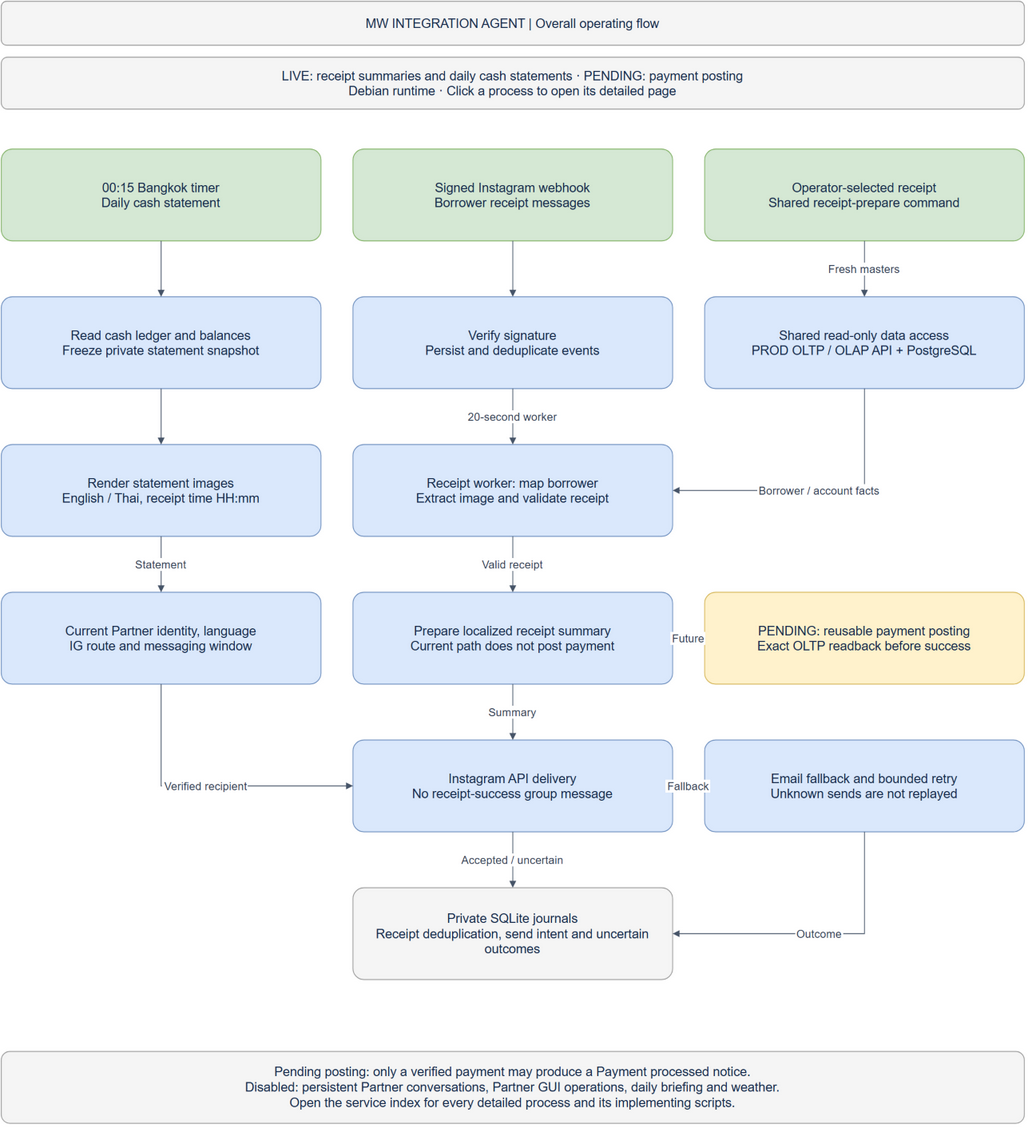
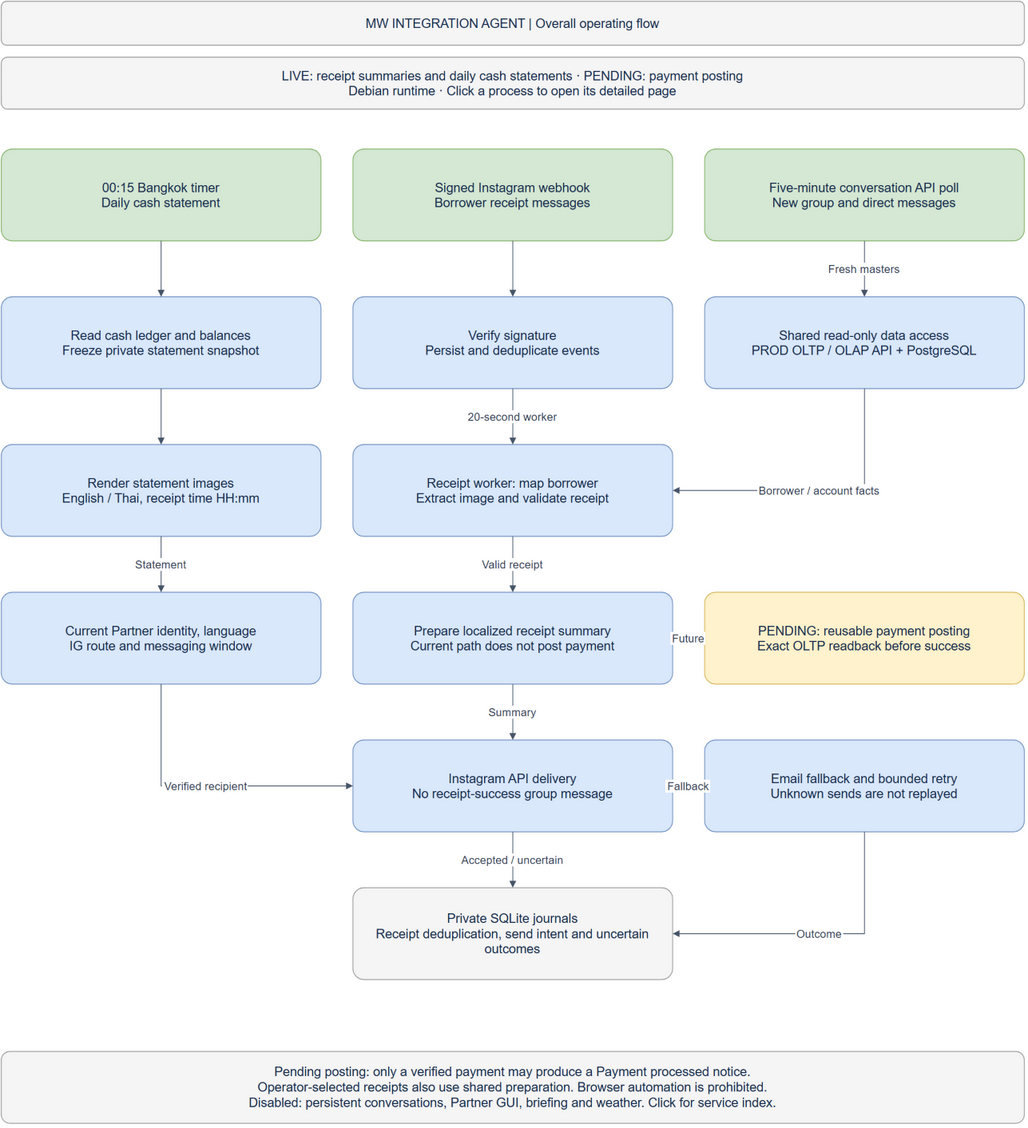
Document verified API polling deployment and update process diagram

Changed region(s): [[0.249, 0.9619, 0.7471, 0.9929], [0.7471, 0.1551, 0.9339, 0.1862]]

diff --git a/scripts/generate-business-process.py b/scripts/generate-business-process.py
@@ -128,6 +128,16 @@ for key,title,service,detail in [
         detail+'\n\nThis page records the current disabled state; it does not enable or promise the feature.',
         'service-catalogue.json: '+service+'\nconfig.py · docs/MIGRATION_PLAN.md'))
 
+pages.append(('poll','Conversation API polling','LIVE',[
+ 'Five-minute timer → single polling worker',
+ 'Official conversations API; current AI-enabled borrower participants',
+ 'Read recent messages back to saved cutoff with five-minute overlap',
+ 'History complete and participant / attachment data usable?',
+ 'Reserve new message IDs and shared receipt image jobs',
+ 'Commit conversation checkpoint; existing receipt worker continues'],
+ 'API only; no browser automation.\nObserved three-participant conversations are readable through expanded list fields.\nDirect group-history endpoint failed.\nMore than 100 unseen messages → stop; no cursor advance.\nOther senders / text / non-images → ignore.\nFresh activation cutoff; no historical replay.\nPolled records never refresh signed IG reply windows.\nNo group send or payment write.',
+ 'conversation_poll.py · receipt_journal.py · receipt_run.py\nmw-conversation-poll.timer · docs/CONVERSATION_POLL.md'))
+
 r=page('agent-overview','01 · Agent overview',1460)
 box(r,'title','MW INTEGRATION AGENT | Overall operating flow',60,25,1280,55,'note')
 box(r,'status','LIVE: receipt summaries and daily cash statements · PENDING: payment posting\nDebian runtime · Click a process to open its detailed page',60,95,1280,65,'note')
@@ -136,7 +146,7 @@ box(r,'status','LIVE: receipt summaries and daily cash statements · PENDING: pa
 for key,label,col,row,kind,target in [
  ('daily','00:15 Bangkok timer\nDaily cash statement',0,0,'LIVE','statement'),
  ('webhook','Signed Instagram webhook\nBorrower receipt messages',1,0,'LIVE','ingress'),
- ('manual','Operator-selected receipt\nShared receipt-prepare command',2,0,'LIVE','receipts'),
+ ('manual','Five-minute conversation API poll\nNew group and direct messages',2,0,'LIVE','poll'),
  ('snapshot','Read cash ledger and balances\nFreeze private statement snapshot',0,1,'step','statement'),
  ('capture','Verify signature\nPersist and deduplicate events',1,1,'step','ingress'),
  ('masters','Shared read-only data access\nPROD OLTP / OLAP API + PostgreSQL',2,1,'step','api'),
@@ -166,7 +176,7 @@ for a,b,label in [
     }
     points,ports=routes.get((a,b),(None,''))
     edge(r,a,b,label,points,ports)
-box(r,'future','Pending posting: only a verified payment may produce a Payment processed notice.\nDisabled: persistent Partner conversations, Partner GUI operations, daily briefing and weather.\nOpen the service index for every detailed process and its implementing scripts.',60,1340,1280,90,'note','overview')
+box(r,'future','Pending posting: only a verified payment may produce a Payment processed notice.\nOperator-selected receipts also use shared preparation. Browser automation is prohibited.\nDisabled: persistent conversations, Partner GUI, briefing and weather. Click for service index.',60,1340,1280,90,'note','overview')
 
 r=page('overview','02 · All services',1120)
 box(r,'title','MW INTEGRATION AGENT  |  All services and implementing scripts',40,25,1320,70,'step')
@@ -176,6 +186,7 @@ for i,(key,title,status,*_) in enumerate(pages):
 box(r,'scope','Owner review baseline · 21 September 2026\nProduction API configuration is outside releases. Real receipt posting remains pending; no borrower-specific scripts are maintained.',40,1010,1320,80,'PENDING')
 # Decision labels describe existing behavior, not new runtime gates.
 decisions={
+ 'poll':(3,'History complete and\nnew-message boundary reached?','Stop and report gap\nDo not advance this checkpoint'),
  'ingress':(2,'Valid signature and\nexpected account?','Reject request; do not create a job'),
  'receipts':(4,'Receipt passes all\nvalidation rules?','Invalid → REVIEW\nNonreceipt / disabled borrower → ignore\nDuplicate → no second processing'),
  'posting':(3,'Reusable posting and\nreadback implemented?','NO — current state\nPayment remains unposted\nDo not send a processed notice'),

diff --git a/docs/OPERATIONS.md b/docs/OPERATIONS.md
@@ -12,7 +12,7 @@ Both PROD OLTP and OLAP inbound APIs are enabled directly outside the product re
 
 Do not assume App Upgrade preserves API Enable. The previous recorded enabled OLTP state was found disabled on 21 September. The vendor upgrade guide does not explicitly guarantee this setting; check both production APIs after upgrades without enabling DEV as a workaround.
 
-All Partner notices are Instagram first, email fallback. The reviewed runtime updater backs up package/configuration and integrity-checks online SQLite backups, preserves activation controls, and sets a separate notification cutoff once. It never resets receipt activation or replays history. See the [15-page process diagram](BUSINESS_PROCESS.md).
+All Partner notices are Instagram first, email fallback. The reviewed runtime updater backs up package/configuration and integrity-checks online SQLite backups, preserves activation controls, and sets a separate notification cutoff once. It never resets receipt activation or replays history. See the [16-page process diagram](BUSINESS_PROCESS.md).
 
 ## Filesystem layout
 
@@ -76,3 +76,7 @@ The Graph OAuth JSON is `/etc/mw-integration-agent/secrets/outlook-email-oauth.j
 ## Activation boundary
 
 The owner authorized the receiver, two-way transport foundation, daily cash statement schedule and its email fallback on 20 September 2026. This does not authorize automated conversational replies: keep `sending_enabled=false` except for a deliberate operator action. The owner separately authorized receipt-only processing on 21 September 2026; its dedicated timer is active. Generic processing and all data writes remain disabled.
+
+## Conversation polling
+
+The owner-authorized [API-only conversation reader](CONVERSATION_POLL.md) runs every five minutes for conversations containing AI-enabled borrowers. Browser automation is prohibited. History gaps fail without advancing the checkpoint; inspect mw-conversation-poll.service for errors. Financial writes remain disabled.

diff --git a/Change Logs/CHANGE_NOTES_CONVERSATION_POLL_2026-09-21.md b/Change Logs/CHANGE_NOTES_CONVERSATION_POLL_2026-09-21.md
@@ -9,3 +9,7 @@ API evidence: 15 conversations, including 12 three-participant conversations; 13
 Local verification: 66 tests, two platform skips. Added tests for new images, ignored text/nonborrowers/history, overlapping scans, webhook deduplication, disabled borrowers, pagination loops, incomplete attachments and no cursor advancement on history overflow. Deployment uses private package/config and integrity-checked journal backup. Final deployment verification is recorded below.
 
 Rollback: stop/disable mw-conversation-poll.timer and restore recorded configuration/package if needed; never overwrite newer journals. Source rollback is the starting commit. Update the process diagram and operations documentation with the new intake path.
+
+Deployment verified at 18:40 Bangkok: implementation `f30c0fbdf3afa5746ca40585f2147ebd11c7a8b3`; all 66 tests passed on Debian. Private rollback `/var/lib/mw-integration-agent/rollback/reviewed-20260921T113954Z` includes integrity-checked journals. New cutoff established at activation, without changing existing webhook or notice cutoffs. Initial and repeat runs succeeded: 15 conversations, 10 eligible, zero new messages/images. Poll timer, webhook and receipt timer are active. Of 12 three-participant conversations, 10 map to enabled borrowers, one to a disabled borrower and one has no borrower match. No post-cutoff real receipt has yet exercised this new input end-to-end.
+
+Updated the agent overview, service index and new detail page 16; rendered changed previews and checked the new flow. Operations, receipt guide and persistent browser prohibition are documented. No production financial write or group send occurred.

diff --git a/docs/BUSINESS_PROCESS.md b/docs/BUSINESS_PROCESS.md
@@ -1,6 +1,6 @@
 # Agent service processes
 
-The authoritative editable diagram is [BUSINESS_PROCESS.drawio](BUSINESS_PROCESS.drawio). Its 15 linked pages start with an agent operating-flow overview (01), followed by the service index (02) and a detailed page for each service, including disabled and pending capabilities. Each detail page names its scripts, steps, decisions and exceptions. [BUSINESS_PROCESS.png](BUSINESS_PROCESS.png) is the overview; individual page images are in [process-pages](process-pages/). Regenerate after a process change:
+The authoritative editable diagram is [BUSINESS_PROCESS.drawio](BUSINESS_PROCESS.drawio). Its 16 linked pages start with an agent operating-flow overview (01), followed by the service index (02) and a detailed page for each service, including disabled and pending capabilities. Each detail page names its scripts, steps, decisions and exceptions. [BUSINESS_PROCESS.png](BUSINESS_PROCESS.png) is the overview; individual page images are in [process-pages](process-pages/). Regenerate after a process change:
 
 ```powershell
 python scripts/generate-business-process.py

diff --git a/docs/RECEIPTS.md b/docs/RECEIPTS.md
@@ -42,3 +42,5 @@ Codex interface reference: [non-interactive mode](https://learn.chatgpt.com/docs
 ## Existing transaction time fields — R013
 
 The owner chose existing fields, without new audit columns. Extraction preserves the printed Bangkok transfer time, including seconds when present; missing/invalid time goes to REVIEW. Summary metadata prepares `Payment Date` and `Created At` for a future Payments write, but this service remains summary-only. The AppSheet repository R013/V30 copies Payments.Created At into new system-payment Cash Ledger.Created At, with current-time fallback for older clients that supply no timestamp. Its existing statement Sort Timestamp/Statement Time then carry that value to OLTP and the 00:15 image. R013 is deployed to production. Existing payments and accepted receipt journals are not backfilled.
+
+Scheduled [conversation API intake](CONVERSATION_POLL.md) also feeds these same receipt jobs, with a separate cutoff and shared message/attachment IDs. It does not create signed webhook events or refresh Partner messaging windows.

diff --git a/AGENTS.md b/AGENTS.md
@@ -4,6 +4,8 @@ This repository is the Linux-native integration-agent runtime for Debian 13 on G
 
 ## Safety and authority
 
+- Instagram browser automation is prohibited by the owner following an account restriction. Use official API access only; do not replace missing group API capabilities with browser automation. Group sends remain untested and unauthorized.
+
 - Default deny: no production integration, webhook, sending, financial write, scheduled job, or partner operation is enabled until the owner explicitly authorizes that capability in this repository.
 - Treat `C:\GitHub\MW-Partner-Operations` as a dated source reference. Its private state, credentials, browser profiles, journals, queues, task definitions, and activation flags are not source code and must never be copied automatically.
 - Preserve the current paused state of the Windows agent. Provisioning or testing this repository does not authorize cutover, route changes, replay, partner messaging, or AppSheet writes.
